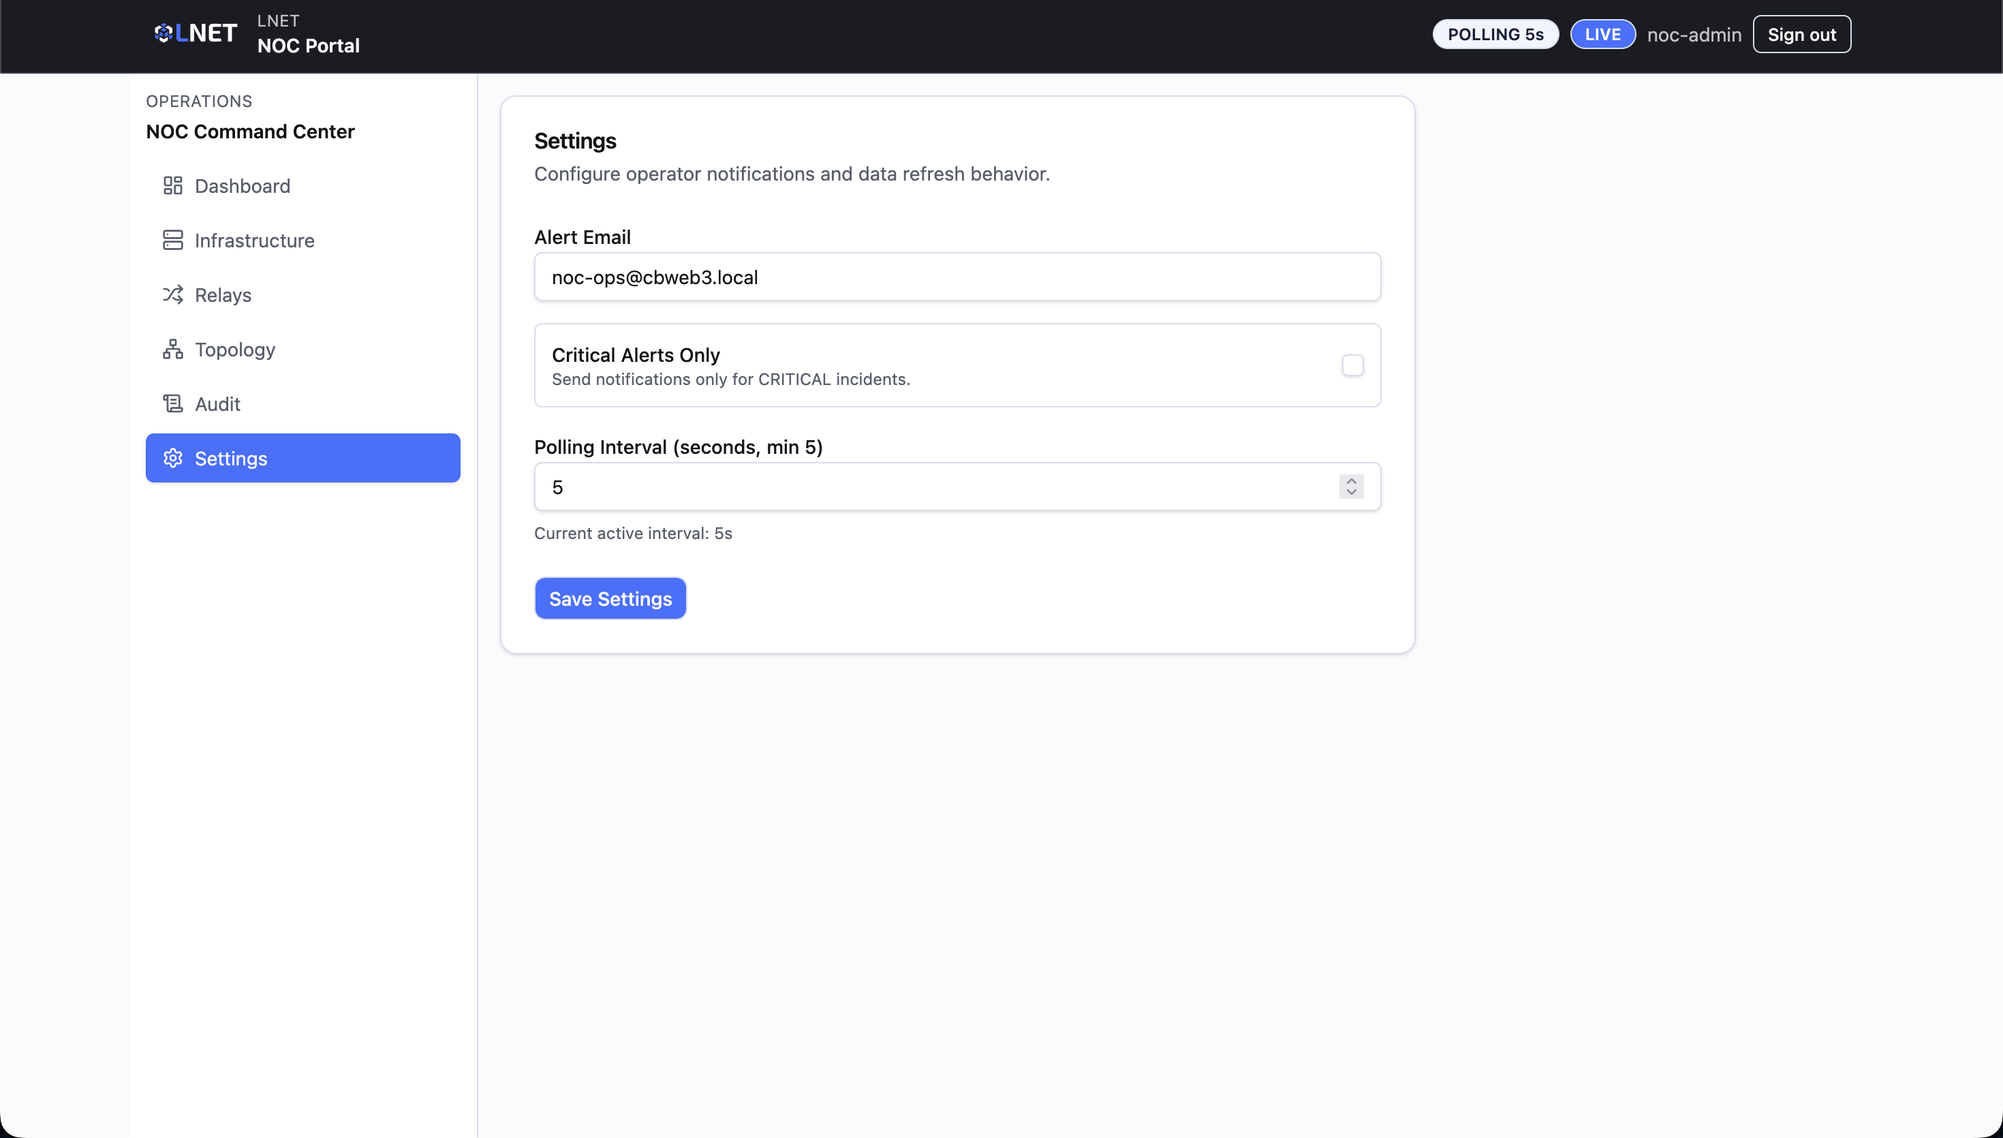
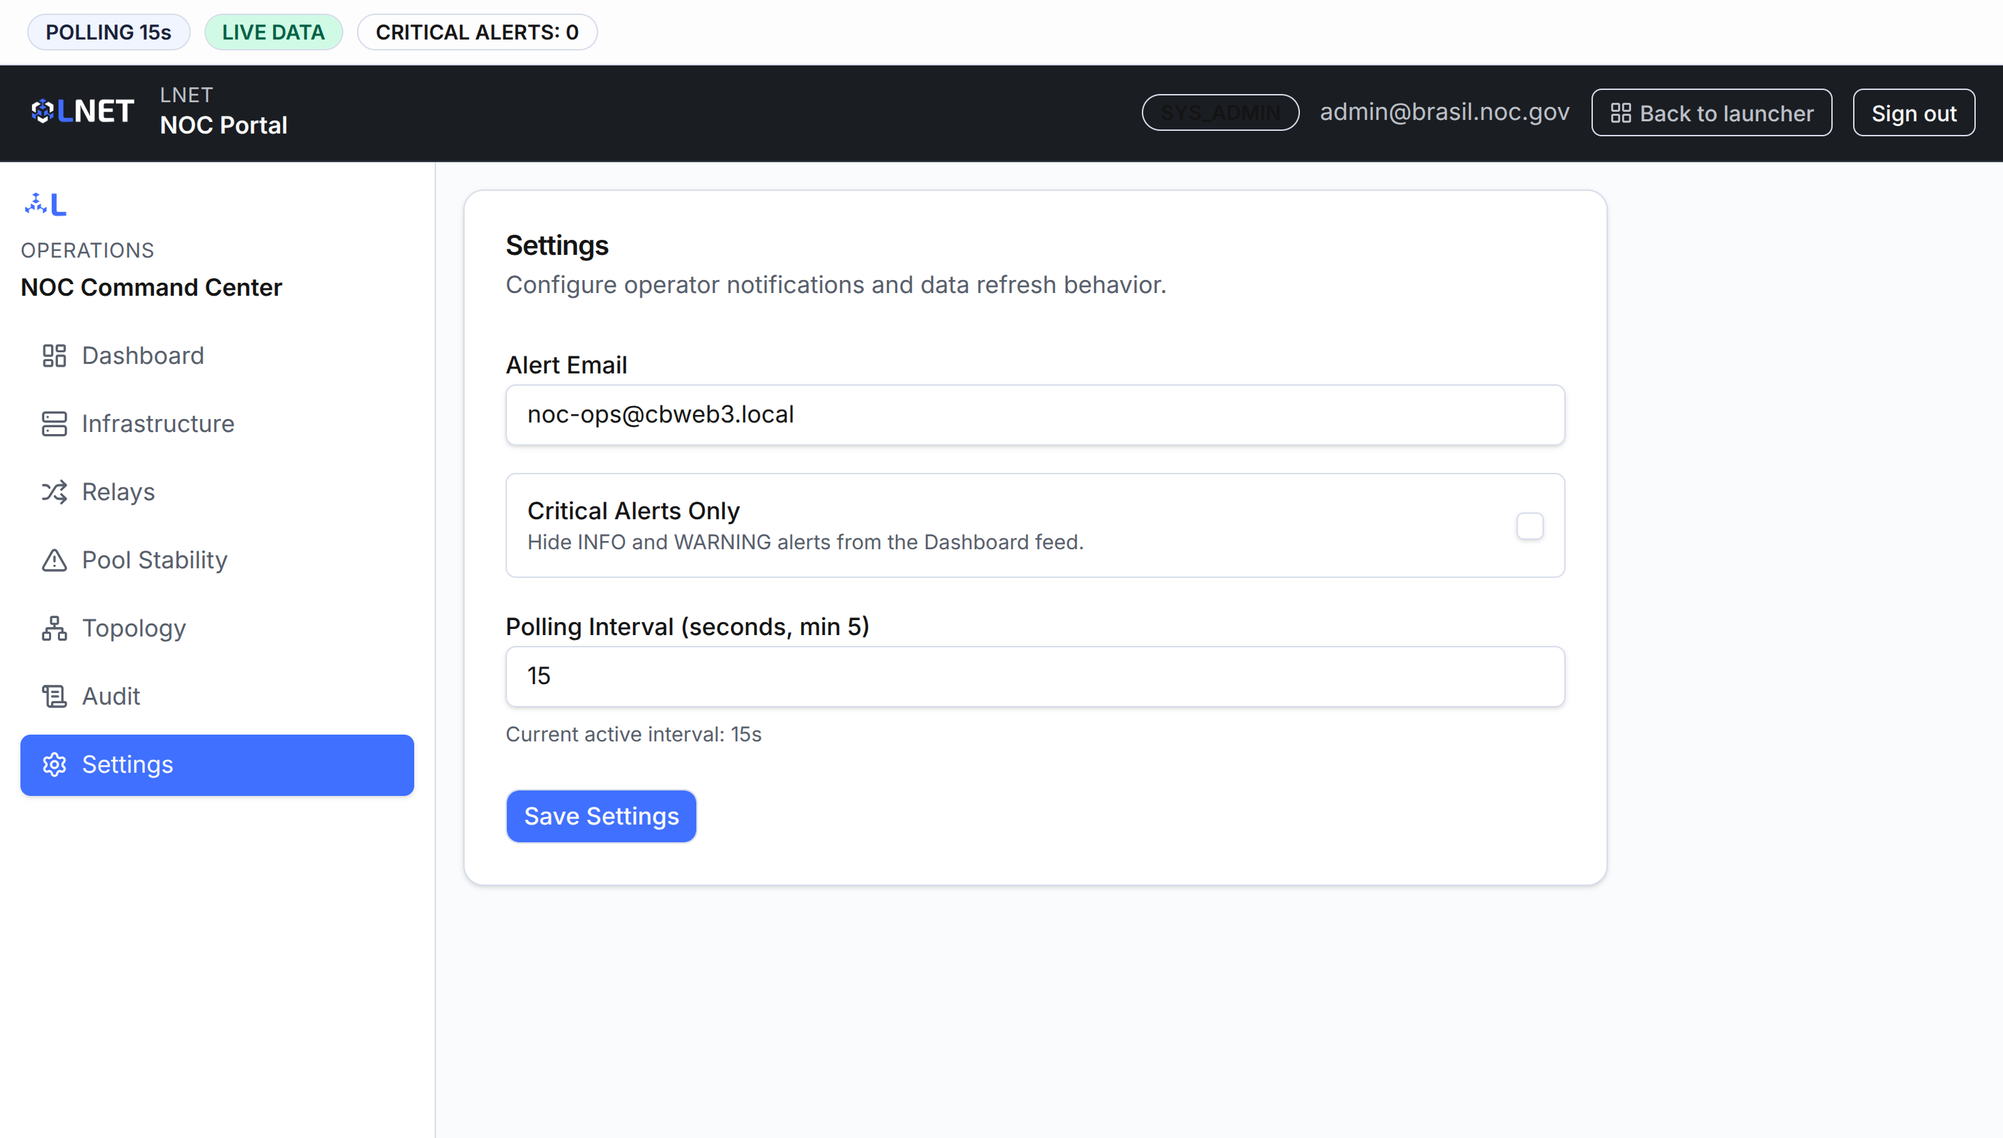
docs(noc-b): align the NOC manual and toolkit README with the build
The docs audit that opened this branch found §4.8 describing behaviour the build
did not have. With the code corrected, the manual is brought in line and the
remaining gaps between text and build are closed:

- §4.8 Settings: the real defaults, what Save applies versus what takes effect on
  toggle, and that an invalid interval saves nothing. The screenshot is recaptured
  from the running portal (the previous one came from a Scenario A deployment).
- §2 / §3: session renewal and its limits, plus a Status bar section explaining
  POLLING and LIVE/STALE — and that STALE is about the portal's link to the
  backend, not the health of the monitored components.
- §4.1: All Spokes, and why component health is per spoke.
- §4.4: the three distinct reasons Pool Stability can be empty.
- §4.6: logs are agent-pushed snapshots, not a live tail; the timestamp is the
  collection time; relay logs need spec.relay.containerName.
- §4.7 / §5: how the audit Actor is resolved, and that dismissing does not silence
  a fault that is still there.
- §9: new entries for being returned to the login page, STALE DATA, empty relay
  logs, and a rewritten Pool Stability entry with the actual diagnostic steps.
- toolkit README: the NOC configuration fields with the two easy to get wrong
  (gateway resolution and relay container name), and the --rebuild workflow.

Seven of the eight images under docs/user-manuals/img/scenario-b/noc/ still come
[…]

diff --git a/platform/docs/user-manuals/scenario-b/noc.md b/platform/docs/user-manuals/scenario-b/noc.md
@@ -4,8 +4,8 @@
 **Scenario:** B — International Hub (hub-and-spoke, AMM-based FX settlement).
 **Data source:** The portal connects to a live NOC backend service. Component
 health, alerts, logs, and topology data reflect actual spoke and hub state when
-the stack is running. The WebSocket telemetry stream falls back to HTTP polling
-automatically.
+the stack is running. Every screen refreshes by HTTP polling — there is no
+telemetry push stream.
 
 ---
 
@@ -13,9 +13,15 @@ automatically.
 >
 > The NOC Portal is wired to a real backend API (Keycloak auth + NOC backend
 > service). Component health, alerts, and logs reflect actual spoke and hub
-> state when the stack is running. The **WebSocket push stream** is a stub —
-> the portal always runs in HTTP polling mode until the stream is implemented.
-> Authenticated sessions are stored as JWT tokens in `localStorage`.
+> state when the stack is running. There is **no WebSocket push stream** — the
+> portal runs in HTTP polling mode on every screen, at the interval configured
+> in [Settings](#48-settings-settings). Authenticated sessions are stored as JWT
+> tokens in `localStorage` and renewed automatically (see
+> [Access and Login](#2-access-and-login)).
+>
+> **Pool Stability** requires the NOC backend to be configured with a reachable
+> api-gateway (`spec.noc.ammGatewayURL`) and at least one active AMM pair. The
+> page states which of the two is missing, so an empty table is never ambiguous.
 
 ---
 
@@ -101,8 +107,8 @@ port: `5910`).
 
 The login page has two panels on desktop:
 
-- **Left panel** — feature summary (SYS_ADMIN restriction, live telemetry,
-  read-only operations plane).
+- **Left panel** — feature summary (SYS_ADMIN restriction, continuous
+  monitoring, read-only operations plane).
 - **Right panel** — sign-in form (username, password, submit button).
 
 | Field | Notes |
@@ -118,9 +124,17 @@ The login page has two panels on desktop:
 `NOCAdmin2026!`. These must not be used in any non-local deployment.
 
 **Session persistence:** On successful login the portal stores `noc_access_token`
-and `noc_refresh_token` in `localStorage`. The session is checked on page
-reload; if the token is expired the operator is redirected to the login page.
-Logging out clears both tokens.
+and `noc_refresh_token` in `localStorage`. The access token is short-lived (5
+minutes by realm default), so the portal renews it automatically — shortly
+before expiry and again if a request is still rejected — using the refresh
+token. A portal left open therefore keeps working without re-authentication up
+to the realm's SSO session limit (10 hours by default), and a page reload within
+that window restores the session instead of returning to the login page.
+
+When renewal is no longer possible (refresh token expired, session revoked), the
+portal drops the session and returns to the login page with *"Session expired.
+Sign in again."*. **Sign out** clears both tokens and returns to the login page;
+use **Back to launcher** to leave the portal for the entity launcher.
 
 ---
 
@@ -144,6 +158,20 @@ by clicking the **View Logs** button on the Infrastructure or Relays pages.
 
 Unknown routes redirect to `/` (Dashboard).
 
+### Status bar
+
+A thin bar above the header carries three badges, visible on every screen:
+
+| Badge | Meaning |
+|---|---|
+| **POLLING `<n>`s** | The active refresh interval, as configured in [Settings](#48-settings-settings). |
+| **LIVE DATA** / **STALE DATA** | `STALE DATA` appears when no backend request has succeeded for three polling cycles (minimum 20 seconds) — the screen is showing the last data received. A banner with the same meaning appears above the page content. |
+| **CRITICAL ALERTS: `<n>`** | Count of `CRITICAL` alerts currently loaded, turning red above zero. |
+
+`STALE DATA` points at the portal's link to the NOC backend, not at the health of
+the monitored components — a spoke can be perfectly healthy while the browser
+cannot reach the backend, and vice versa.
+
 ---
 
 ## 4. Screens
@@ -160,8 +188,13 @@ spoke) and displays the active alert feed.
 
 A dropdown at the top of the page. By default, the first available spoke is
 selected automatically. Select **a specific spoke** to filter both the
-Component Health table and the Alert Feed to that spoke only. Clearing the
-selection shows alerts across all spokes.
+Component Health table and the Alert Feed to that spoke only.
+
+Select **All Spokes** for a platform-wide view: the Alert Feed then lists alerts
+from every registered spoke. Component health is only available per spoke, so in
+this mode the Component Health table shows *"Select a spoke to see component
+health"* and the **Degraded Components** / **Offline Components** cards show `—`
+instead of a count.
 
 #### Summary Cards
 
@@ -190,6 +223,11 @@ Lists up to 8 active alerts. Each alert row shows:
 | **Severity badge** | `INFO`, `WARNING`, `HIGH`, or `CRITICAL`. |
 | **ACK badge** | Shown when the alert has been acknowledged by any operator. |
 | **Dismiss button** | X icon on the right — click to dismiss directly from the feed. |
+
+When **Critical Alerts Only** is enabled in [Settings](#48-settings-settings),
+the feed lists only `HIGH` and `CRITICAL` alerts and a `CRITICAL ONLY` badge
+appears next to the feed title. The Summary Cards are not affected by that
+setting.
 
 Click any alert row (not the dismiss button) to open the **Alert Detail Modal**.
 
@@ -289,6 +327,16 @@ NOC Portal.
 Displays the reserve ratios of each AMM (AutomatedMarketMaker) liquidity pool
 and flags pools that have breached the 70/30 threshold. A **Refresh** button
 triggers a manual data reload.
+
+The NOC backend does not hold pool data of its own: it queries the api-gateway
+for each AMM pair it is configured with. The page therefore distinguishes three
+empty outcomes, and it is worth reading which one you are looking at:
+
+| What you see | What it means |
+|---|---|
+| *"No AMM pools are configured for this deployment."* | The backend read the gateway successfully and there is nothing to show — no sovereign pair has been opened yet, or none is configured. |
+| An amber warning listing pairs that **could not be read** | The gateway is unreachable or the pair does not exist there. This is a configuration or connectivity problem, not an empty AMM — the reason reported for each pair comes straight from the gateway. |
+| A red banner: *"Could not reach the NOC backend."* | The portal could not reach the NOC backend at all; nothing on this page is current. |
 
 #### Understanding the 70/30 rule
 
@@ -391,6 +439,7 @@ parameter (`?name=...`).
 | Control | Description |
 |---|---|
 | **Refresh button** | Force an immediate log fetch. Spinner is shown while loading. |
+| **SNAPSHOT `<n>`s OLD** badge | Appears when the newest line collected is more than 60 seconds old — see *Snapshots, not a live tail* below. |
 
 #### Log Panel
 
@@ -398,13 +447,27 @@ Terminal-style viewer (black background, green text).
 
 | Column | Description |
 |---|---|
-| **Timestamp** | Time portion of the log line's `occurred_at` timestamp (HH:MM:SS.mmm). |
+| **Timestamp** | Time portion of the log line's `occurred_at` timestamp (HH:MM:SS.mmm). This is when the **agent collected** the batch, so a whole batch shares one timestamp; each line's own time appears inside the log text. |
 | **Stream badge** | `stdout` (normal output) or `stderr` (error output). `stderr` lines appear in red. |
 | **Log line** | Raw log text from the container. |
 
 - Displays the **last 500 lines**.
 - Auto-scrolls to the bottom on initial load and on each refresh.
-- Refreshes automatically every **15 seconds**.
+- Refreshes automatically every **15 seconds**. This cycle is fixed and is not
+  affected by the Settings polling interval.
+
+#### Snapshots, not a live tail
+
+Logs are collected by the spoke's NOC agent and pushed to the backend; the
+viewer reads what the backend stored. If the container stops, or its agent stops
+collecting, the screen keeps showing the last snapshot with no other visible
+change — the **SNAPSHOT `<n>`s OLD** badge is what tells you the lines are not
+current.
+
+> Log collection requires the component to be registered with its container name.
+> A component registered without one always reports *"No logs available."* even
+> while healthy — for relay components this depends on `spec.relay.containerName`
+> being set in the entity's deployment manifest.
 
 ---
 
@@ -428,7 +491,7 @@ recorded here.
 | Column | Description |
 |---|---|
 | **Timestamp** | When the action was performed (local time). |
-| **Actor** | Username of the NOC operator who performed the action. |
+| **Actor** | Username of the NOC operator who performed the action, taken from the `preferred_username` claim of the token used. Deployments whose token carries no username fall back to the account's internal ID, and a request with no readable identity is recorded as `dev-user`. |
 | **Action** | The action type: `Acknowledge` (from `ACKNOWLEDGE_ALERT`) or `Dismiss` (from `DISMISS_ALERT`). |
 | **Target** | The internal ID of the alert that was acted upon. |
 | **Detail** | Any additional context recorded at the time of the action. |
@@ -457,12 +520,25 @@ same browser. They reset when the browser storage is cleared.
 
 | Setting | Default | Description |
 |---|---|---|
-| **Alert Email** | `noc-ops@cbweb3.local` | Email address for alert notifications. Stored locally — not sent to the backend. |
-| **Critical Alerts Only** | Off | When checked, mutes `INFO` and `WARNING` severity alerts from the Dashboard feed. Only `HIGH` and `CRITICAL` alerts appear. |
-| **Polling Interval** | 15 seconds | How frequently the Dashboard auto-refreshes. **Minimum: 5 seconds.** Values below 5 are rejected. |
+| **Alert Email** | `noc-ops@cbweb3.local` | Email address for alert notifications. Stored locally — not sent to the backend. Applied on **Save Settings**. |
+| **Critical Alerts Only** | Off | When checked, hides `INFO` and `WARNING` severity alerts from the Dashboard's Active Alert Feed. Only `HIGH` and `CRITICAL` alerts appear, and a `CRITICAL ONLY` badge is shown on the feed header. Applied immediately on toggle. |
+| **Polling Interval** | 15 seconds | How frequently the auto-refreshing pages reload data. **Minimum: 5 seconds.** Values below 5 are rejected. Applied on **Save Settings**. |
 
-Click **Save Settings** to apply changes. A toast confirms success. The active
-polling interval shown below the input updates immediately.
+Click **Save Settings** to apply the Alert Email and Polling Interval. A toast
+confirms success, and the active polling interval shown below the input updates
+immediately. If the interval is below 5 seconds or not a number, an error toast
+appears and **nothing is saved** — including the Alert Email. The **Critical
+Alerts Only** checkbox does not require Save; it takes effect as soon as it is
+toggled.
+
+The Polling Interval governs every auto-refreshing page in the portal —
+[Dashboard](#41-dashboard-), [Infrastructure](#42-infrastructure-infrastructure)
+and [Relay Status](#43-relay-status-relays) — not the Dashboard alone. The
+Container Logs refresh cycle is fixed at 15 seconds and is not affected by this
+setting.
+
+Note that the **Critical / High Alerts** counter in the Dashboard KPI row always
+counts `HIGH` and `CRITICAL` active alerts regardless of this setting.
 
 ---
 
@@ -501,6 +577,13 @@ The ACK badge appears on the alert row. The action appears in the Audit Trail.
 
 In both cases the alert disappears from the feed and is logged in the Audit
 Trail. Dismissed alerts cannot be re-activated from the portal.
+
+**Dismissing does not silence an ongoing fault.** If the component is still
+unhealthy, the next agent report raises a new alert for it — dismissal clears
+the row you acted on, not the condition behind it. The alert stops coming back
+once the component reports `HEALTHY`, which also resolves it automatically. Use
+**Acknowledge** for a fault you are actively working on: it keeps the alert in
+the feed and marks it as taken.
 
 ---
 
@@ -654,6 +737,26 @@ Trail. Dismissed alerts cannot be re-activated from the portal.
 - Run `make noc.setup-keycloak` from `scenario-b/` if the `noc-portal` client
   does not yet exist in Keycloak.
 
+### Returned to the login page while working
+
+- The portal renews its token automatically, so this normally only happens when
+  the realm's SSO session limit is reached (10 hours by default) or the session
+  was revoked in Keycloak. The message shown is *"Session expired. Sign in
+  again."*
+- If it happens after only a few minutes, the renewal call is failing: check the
+  browser network tab for a rejected request to the Keycloak token endpoint, and
+  confirm the portal's `VITE_KEYCLOAK_URL` points at a realm reachable from the
+  browser.
+
+### Status bar shows STALE DATA
+
+- The browser has not completed a backend request for three polling cycles. The
+  monitored components may be perfectly healthy — what failed is the portal's
+  own link to the NOC backend.
+- Confirm the NOC backend container is up and answering on its published port.
+- Check the browser console for CORS or connection errors; a portal built with
+  the wrong `VITE_NOC_BACKEND_URL` shows exactly this symptom.
+
 ### Dashboard shows no data or all components show `UNKNOWN`
 
 - Verify the NOC backend service is running and that the spoke services are up.
@@ -663,6 +766,14 @@ Trail. Dismissed alerts cannot be re-activated from the portal.
   spoke-endpoint unreachability.
 - Run `make noc.setup-agents` from `scenario-b/` if spokes are not yet
   registered in the NOC backend.
+
+### Relay logs are empty while the relay is healthy
+
+- Log collection needs the relay's container name in the entity's deployment
+  manifest (`spec.relay.containerName`). Without it the component is registered
+  with an endpoint only, so there is nothing for the agent to read logs from.
+- After adding it, the entity must be re-applied (or its `noc-agent`
+  configuration refreshed) for the change to reach the agent.
 
 ### Relay page shows an empty table
 
@@ -675,10 +786,19 @@ Trail. Dismissed alerts cannot be re-activated from the portal.
 
 ### Pool Stability shows no pools
 
-- Confirm the NOC backend's pool data source is configured and reachable.
-- Check browser console for network errors on the `/api/v1/pools` request.
-- If the stack was just started, allow a few minutes for the AMM to initialise
-  and for the first pool snapshot to be recorded.
+- Read the page's own message first: it says whether the gateway answered with
+  nothing, could not be read, or was never reached (see
+  [Pool Stability](#44-pool-stability-pool-stability)).
+- When pairs are listed as unreadable, the NOC backend logs one line per failed
+  pair with the gateway URL it tried: `docker logs <noc-backend container>`.
+  A wrong `AMM_GATEWAY_URL`, or a gateway on a network the backend cannot reach,
+  produces exactly this.
+- *"not found among active pairs"* means the gateway is reachable but the
+  configured pair does not exist there. Confirm the pair identifier in
+  `AMM_PAIRS` matches an active pair on the api-gateway.
+- If the corridor was never opened, there is genuinely nothing to show: a
+  sovereign pair must be proposed, confirmed and funded with liquidity (done by
+  the central banks from the Governance portal) before any pool exists.
 
 ### Log Viewer shows no logs or an error
 
@@ -696,6 +816,10 @@ Trail. Dismissed alerts cannot be re-activated from the portal.
   to a high value, new alerts will appear infrequently.
 - The WebSocket stream is not yet active — the portal always polls. This is
   expected behavior and not an error.
+- If `INFO` and `WARNING` alerts are missing from the Dashboard feed, check
+  whether **Critical Alerts Only** is enabled in [Settings](#48-settings-settings).
+  The setting persists across reloads, so it may have been left on by an earlier
+  session in the same browser.
 - Click **Refresh** on the Infrastructure page or navigate away and back to the
   Dashboard to trigger an immediate data pull.
 

diff --git a/platform/scenario-b/toolkit/README.md b/platform/scenario-b/toolkit/README.md
@@ -107,6 +107,46 @@ shows the CB node plus every bank node under one spoke.
 > backends (real Keycloak realm + out-of-band agent keys) are out of scope here.
 > The portal's Keycloak login is likewise a follow-up.
 
+### NOC configuration worth knowing
+
+| Field | Effect |
+|---|---|
+| `spec.noc.keycloakURL` | Realm the portal password-grants against (baked as `VITE_KEYCLOAK_URL`). |
+| `spec.noc.launcherURL` | "Back to launcher" target (baked as `VITE_LAUNCHER_URL`). |
+| `spec.noc.ammGatewayURL` | api-gateway the **backend** reads AMM pool status from, for Pool Stability. |
+| `spec.noc.backendURL` | Where this entity's agent pushes (default `host.docker.internal:8090`). |
+| `spec.relay.containerName` | Relay container on this host, so the agent can collect its **logs**. |
+
+Two of these are easy to get wrong:
+
+- **`ammGatewayURL` is resolved from inside the NOC container.** The NOC stack owns
+  its own docker network, so another entity's compose service name does not resolve
+  there — use the host and the gateway's published port
+  (`http://host.docker.internal:<rpcPort + 8000>`). The backend then *discovers* the
+  active pairs from that gateway, so no pair list has to be configured; `AMM_PAIRS`
+  remains available as an env-only pin. With the field unset, Pool Stability stays
+  empty and the page reports that the gateway could not be read.
+- **`relay.containerName` is what makes relay logs work.** Component log collection
+  is done by the agent over the docker socket, so a component registered without a
+  container name always reports "No logs available." in the portal. The relay itself
+  is never touched — the name is only read.
+
+### Redeploying after a code change (`--rebuild`)
+
+Image tags encode the **baked build args**, not the source tree. So after editing a
+service or portal, a plain `apply` finds the tag already present, reports every step
+as `done`/`skipped`, and leaves the previous binary running. Use:
+
+```bash
+go run ./cmd/cbweb3b apply -f <manifest.yaml> --repo-root <repo> --rebuild
+```
+
+`--rebuild` forces this entity's image builds *and* the steps that bring its
+containers up (compose then recreates them on the new image id), including the
+readiness gate that follows — a recreated backend is not ready yet, and the steps
+after it would otherwise race it. It does not touch chain state, contracts, PKI or
+genesis.
+
 ## Usage
 
 Validate a single manifest:
